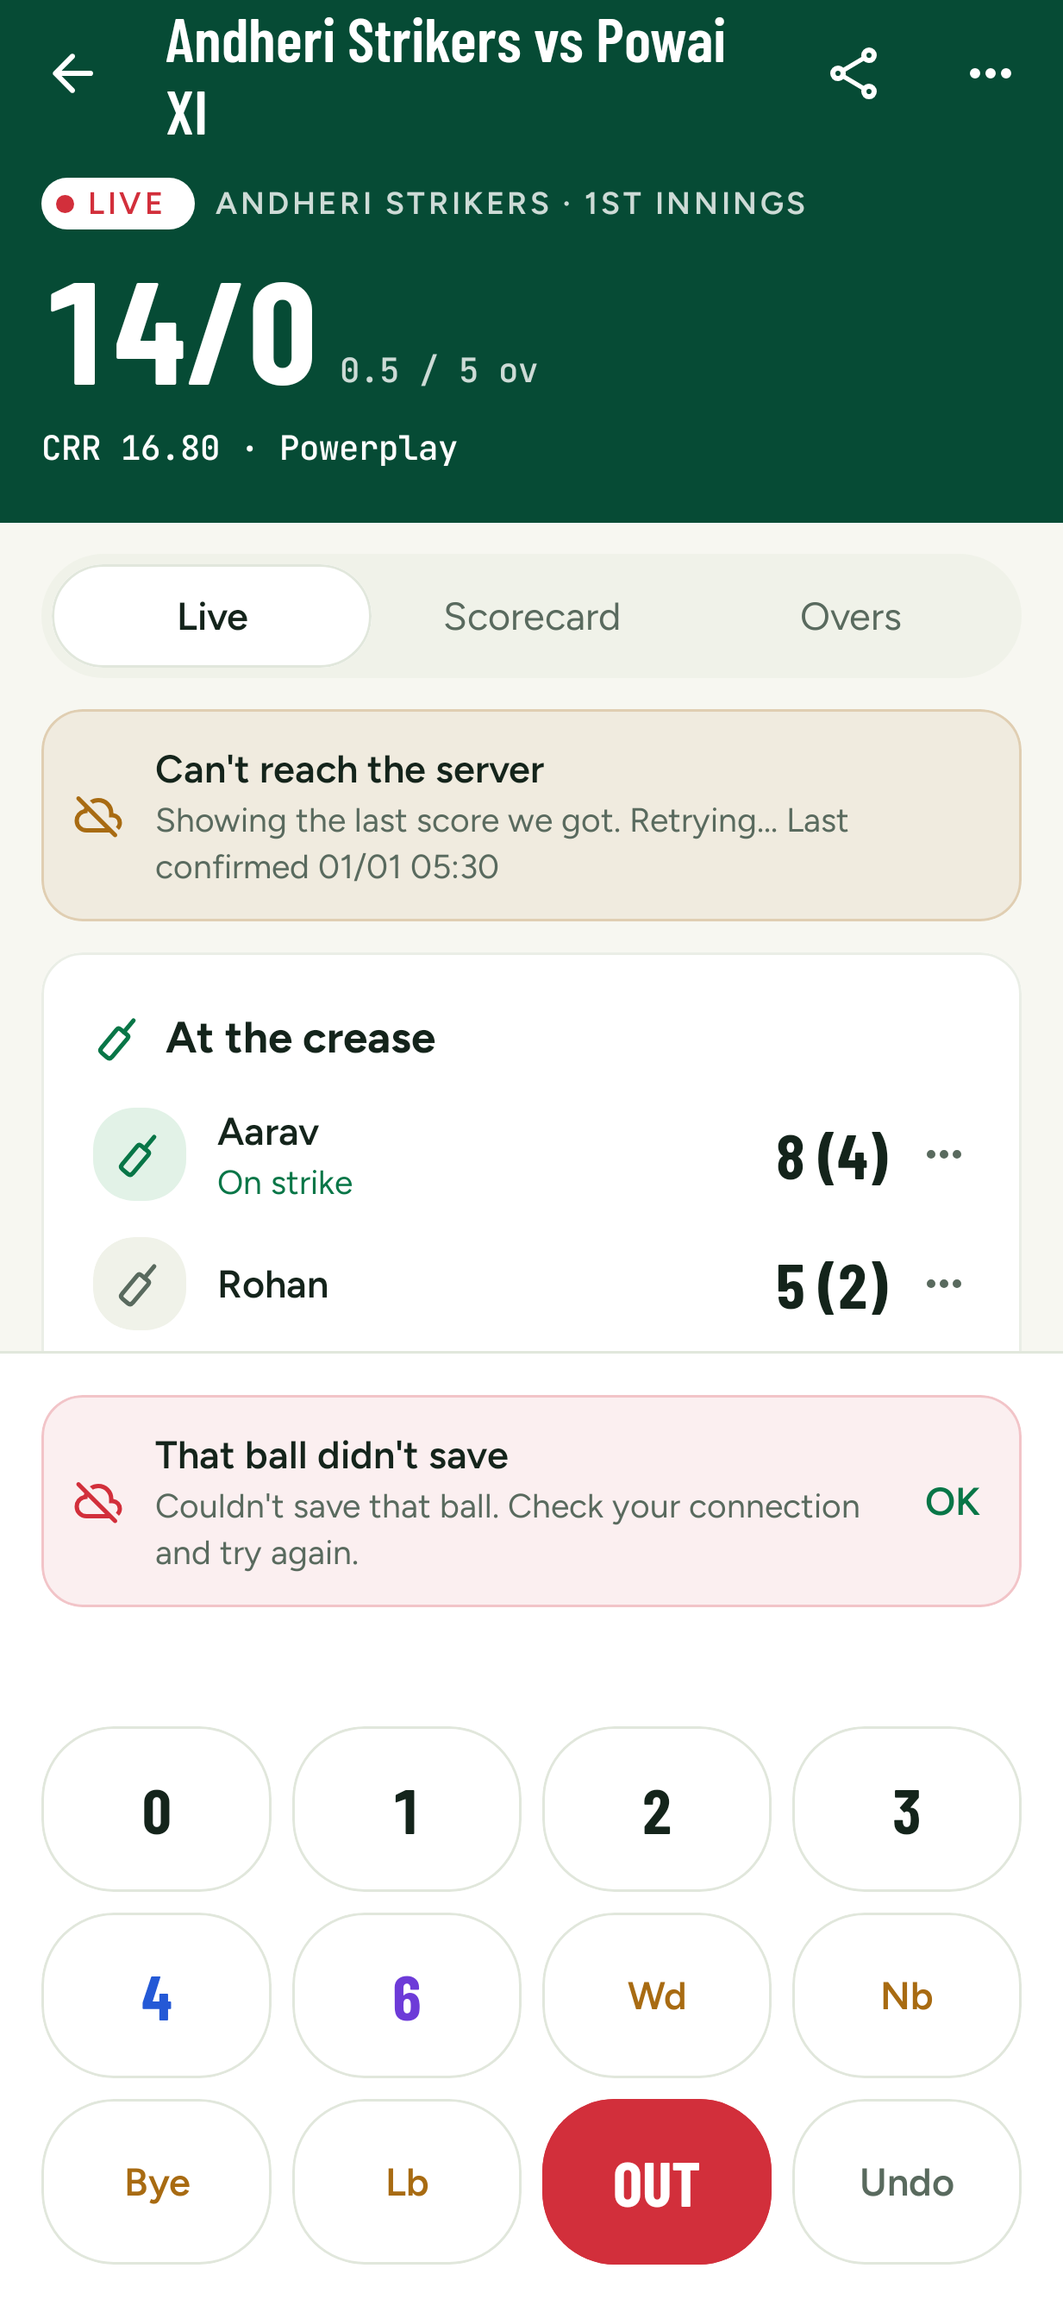
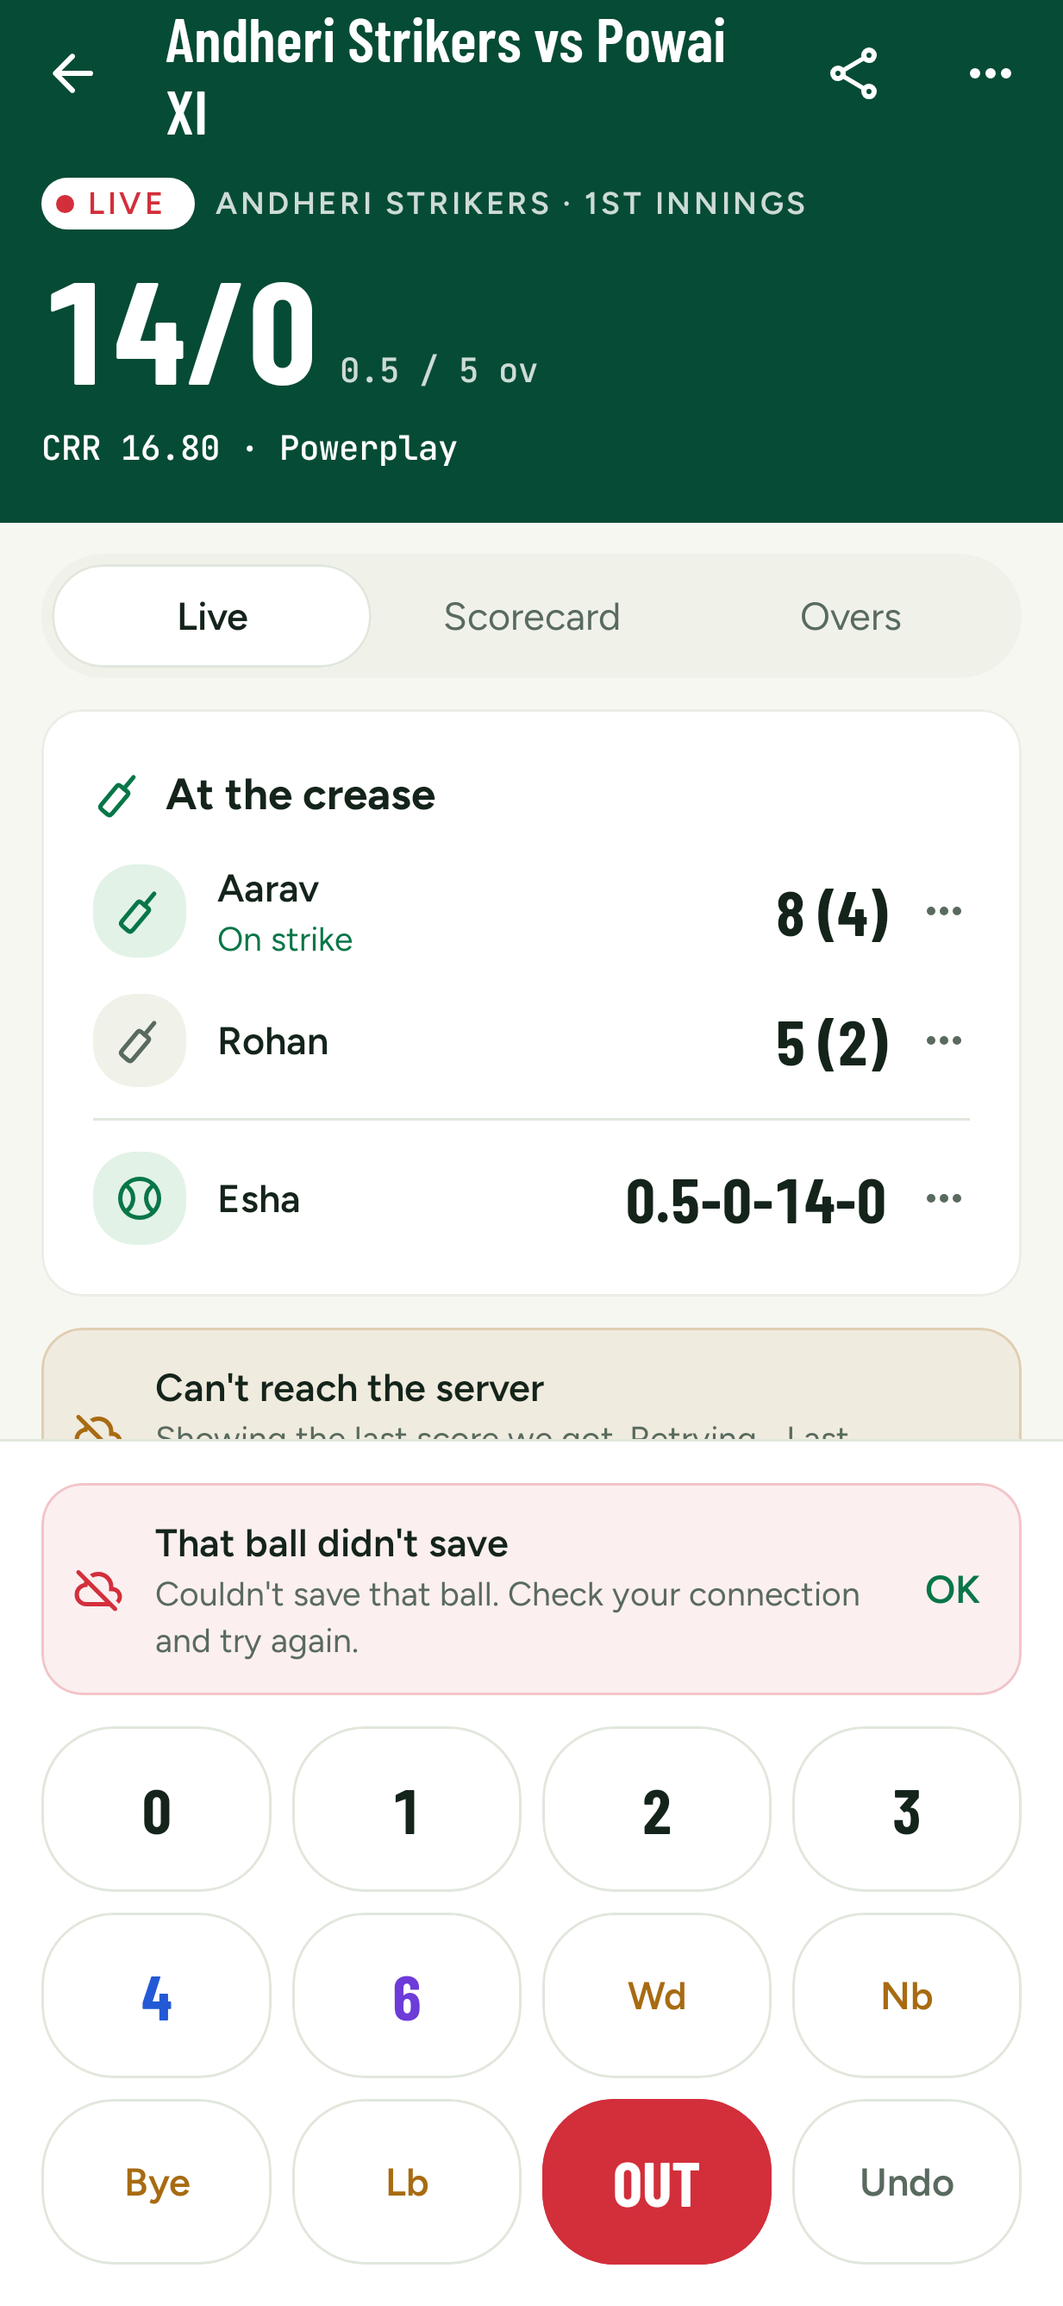
Keep the crease in view and point the scorer at the next pick
The crease card scrolled under the run pad, so a banner could hide the
bowler. It's now pinned above the pad, and the pad drops its empty hint
row. The striker, non-striker or bowler picker opens by itself when the
next ball needs one, once per gap.

Tapping a run key that waits for a pick turns the empty slot red, shakes
it and buzzes, instead of doing nothing.

diff --git a/app/shared/src/commonMain/kotlin/com/harsh/desicrics/ui/match/MatchScreen.kt b/app/shared/src/commonMain/kotlin/com/harsh/desicrics/ui/match/MatchScreen.kt
@@ -1,4 +1,6 @@
 package com.harsh.desicrics.ui.match
+import androidx.compose.animation.core.Animatable
+import androidx.compose.animation.core.tween
 import androidx.compose.foundation.border
 import com.harsh.desicrics.model.MatchEvent
 import com.harsh.desicrics.model.AbandonReason
@@ -40,7 +42,9 @@ import androidx.compose.runtime.setValue
 import androidx.compose.ui.Alignment
 import androidx.compose.ui.Modifier
 import androidx.compose.ui.draw.clip
+import androidx.compose.runtime.mutableIntStateOf
 import androidx.compose.ui.hapticfeedback.HapticFeedbackType
+import androidx.compose.ui.unit.IntOffset
 import androidx.compose.ui.platform.LocalHapticFeedback
 import androidx.compose.ui.semantics.Role
 import androidx.compose.ui.text.style.TextAlign
@@ -249,54 +253,93 @@ private fun ColumnScope.Scoring(ui: MatchUiState, state: MatchState, actions: Ma
         onSelect = { tab = it },
         modifier = Modifier.padding(horizontal = DesiTheme.space.screen, vertical = DesiTheme.space.s3),
     )
-    Column(
-        Modifier.fillMaxWidth().weight(1f).verticalScroll(rememberScrollState())
-            .padding(horizontal = DesiTheme.space.screen).padding(bottom = DesiTheme.space.s4),
-        verticalArrangement = Arrangement.spacedBy(DesiTheme.space.s3),
-    ) {
-        if (ui.saving || ui.reconciling) Text(stringResource(if (ui.saving) Res.string.score_saving else Res.string.score_checking), style = DesiTheme.type.caption)
-        if (ui.offline) {
-            ErrorBanner(
-                listOfNotNull(stringResource(Res.string.match_offline), ui.confirmedAt?.let { stringResource(Res.string.score_confirmed, formatDayAndTime(it)) }).joinToString(" "),
-                title = stringResource(Res.string.match_offline_title),
-                icon = DesiIcons.CloudOff,
-                warning = true,
-            )
+    // The batters and bowler stay pinned above the pad so the scorer always sees who's in; the rest scrolls
+    // in what's left. Weighted, so on a short screen this gives way rather than the pad.
+    val scroll = rememberScrollState()
+    // A connection warning appears at the top of the scrolling part; bring it into view.
+    LaunchedEffect(ui.offline) { if (ui.offline) scroll.animateScrollTo(0) }
+    // The pick the scorer has to make before the next ball: openers at the start, a new batter after a
+    // wicket, the next bowler after an over. It opens by itself once per gap; dismissing it leaves the
+    // slot's button to tap, rather than reopening on every recomposition.
+    val needed = when {
+        !ui.isScorer || !ui.canEdit || ui.pendingBall != null -> null
+        ui.strikerId == null -> ScoringSheet.Striker
+        ui.nonStrikerId == null && !ui.battingAlone -> ScoringSheet.NonStriker
+        ui.bowlerId == null -> ScoringSheet.Bowler
+        else -> null
+    }
+    // Taps on run keys that wait for that pick: the slot turns red and shakes, and the phone buzzes.
+    var nudges by remember(needed) { mutableIntStateOf(0) }
+    val haptics = LocalHapticFeedback.current
+    val onBlockedKey: () -> Unit = {
+        if (needed != null) {
+            nudges++
+            haptics.performHapticFeedback(HapticFeedbackType.Reject)
         }
-        when (tab) {
-            MatchTab.LIVE -> {
-                if (!state.isComplete) {
-                    CreaseCard(ui, innings, onChoose = { sheet = it })
-                    ThisOver(innings)
-                }
-                if (!ui.isScorer) {
-                    Text(stringResource(Res.string.match_not_your_match), style = DesiTheme.type.caption, color = DesiTheme.colors.muted)
-                }
-                if (state.isComplete && ui.canUndo) {
-                    // Undo after an early ending reopens the match rather than taking back a ball.
-                    val endedEarly = state.result?.ending != null
-                    GhostButton(
-                        stringResource(if (endedEarly) Res.string.end_reopen else Res.string.match_undo_last_ball),
-                        onClick = if (endedEarly) actions.onUndo else askUndo,
-                        modifier = Modifier.fillMaxWidth(),
-                        leadingIcon = DesiIcons.History,
-                    )
-                }
+    }
+    val crease = tab == MatchTab.LIVE && !state.isComplete
+    Column(Modifier.fillMaxWidth().weight(1f)) {
+        if (crease) {
+            Box(Modifier.padding(horizontal = DesiTheme.space.screen).padding(bottom = DesiTheme.space.s3)) {
+                CreaseCard(ui, innings, blocking = needed?.takeIf { nudges > 0 }, nudges = nudges, onChoose = { sheet = it })
             }
-            MatchTab.SCORECARD -> {
-                state.innings.forEach {
-                    InningsScorecard(it)
-                    InningsWagonWheel(it)
-                }
-                MatchMvp(state)
+        }
+        Column(
+            Modifier.fillMaxWidth().weight(1f).verticalScroll(scroll)
+                .padding(horizontal = DesiTheme.space.screen).padding(bottom = DesiTheme.space.s4),
+            verticalArrangement = Arrangement.spacedBy(DesiTheme.space.s3),
+        ) {
+            if (ui.saving || ui.reconciling) Text(stringResource(if (ui.saving) Res.string.score_saving else Res.string.score_checking), style = DesiTheme.type.caption)
+            if (ui.offline) {
+                ErrorBanner(
+                    listOfNotNull(stringResource(Res.string.match_offline), ui.confirmedAt?.let { stringResource(Res.string.score_confirmed, formatDayAndTime(it)) }).joinToString(" "),
+                    title = stringResource(Res.string.match_offline_title),
+                    icon = DesiIcons.CloudOff,
+                    warning = true,
+                )
             }
-            // Latest innings first, so the over in progress is at the top.
-            MatchTab.OVERS -> state.innings.asReversed().forEach { InningsOvers(it, showTitle = state.innings.size > 1) }
+            when (tab) {
+                MatchTab.LIVE -> {
+                    if (!state.isComplete) ThisOver(innings)
+                    if (!ui.isScorer) {
+                        Text(stringResource(Res.string.match_not_your_match), style = DesiTheme.type.caption, color = DesiTheme.colors.muted)
+                    }
+                    if (state.isComplete && ui.canUndo) {
+                        // Undo after an early ending reopens the match rather than taking back a ball.
+                        val endedEarly = state.result?.ending != null
+                        GhostButton(
+                            stringResource(if (endedEarly) Res.string.end_reopen else Res.string.match_undo_last_ball),
+                            onClick = if (endedEarly) actions.onUndo else askUndo,
+                            modifier = Modifier.fillMaxWidth(),
+                            leadingIcon = DesiIcons.History,
+                        )
+                    }
+                }
+                MatchTab.SCORECARD -> {
+                    state.innings.forEach {
+                        InningsScorecard(it)
+                        InningsWagonWheel(it)
+                    }
+                    MatchMvp(state)
+                }
+                // Latest innings first, so the over in progress is at the top.
+                MatchTab.OVERS -> state.innings.asReversed().forEach { InningsOvers(it, showTitle = state.innings.size > 1) }
+            }
         }
     }
     // The pad only shows with the live view, so the scorecard gets the whole screen.
     if (ui.isScorer && !state.isComplete && tab == MatchTab.LIVE) {
-        ScoringPad(ui, actions, askUndo, onSheet = { sheet = it })
+        ScoringPad(ui, actions, askUndo, nudged = nudges > 0, onBlockedKey = onBlockedKey, onSheet = { sheet = it })
+    }
+
+    var autoOpened by remember { mutableStateOf<Pair<ScoringSheet, Int>?>(null) }
+    LaunchedEffect(needed, ui.nextSeq, sheet == null) {
+        val gap = needed?.let { it to ui.nextSeq } ?: return@LaunchedEffect
+        if (sheet == null && autoOpened != gap) {
+            autoOpened = gap
+            tab = MatchTab.LIVE
+            sheet = needed
+        }
     }
 
     ScoringSheets(sheet, ui, state, actions, onSheet = { sheet = it }, onClose = { sheet = null })
@@ -414,7 +457,7 @@ private fun Scoreboard(state: MatchState, onBack: () -> Unit, onShare: () -> Uni
 
 /** Both batters and the bowler. Empty slots are buttons for the scorer to fill. */
 @Composable
-private fun CreaseCard(ui: MatchUiState, innings: InningsState, onChoose: (ScoringSheet) -> Unit) {
+private fun CreaseCard(ui: MatchUiState, innings: InningsState, blocking: ScoringSheet?, nudges: Int, onChoose: (ScoringSheet) -> Unit) {
     fun batter(id: String?) = innings.battingTeam.players.firstOrNull { it.id == id }
     val bowler = innings.bowlingTeam.players.firstOrNull { it.id == ui.bowlerId }
     val chooseBowler = if (innings.legalBalls == 0) Res.string.match_choose_opening_bowler else Res.string.match_choose_next_bowler
@@ -438,19 +481,19 @@ private fun CreaseCard(ui: MatchUiState, innings: InningsState, onChoose: (Scori
                 )
             }
         }
-        BatterSlot(batter(ui.strikerId), innings, onStrike = true, empty = stringResource(Res.string.match_choose_striker), ui.canEdit, mustRetire, rules, onChoose) {
+        BatterSlot(batter(ui.strikerId), innings, onStrike = true, empty = stringResource(Res.string.match_choose_striker), ui.canEdit, mustRetire, rules, onChoose, nudges.takeIf { blocking == ScoringSheet.Striker }) {
             onChoose(ScoringSheet.Striker)
         }
         if (ui.battingAlone) {
             Text(stringResource(Res.string.match_batting_alone), style = DesiTheme.type.caption, color = DesiTheme.colors.muted)
         } else {
-            BatterSlot(batter(ui.nonStrikerId), innings, onStrike = false, empty = stringResource(Res.string.match_choose_non_striker), ui.canEdit, mustRetire, rules, onChoose) {
+            BatterSlot(batter(ui.nonStrikerId), innings, onStrike = false, empty = stringResource(Res.string.match_choose_non_striker), ui.canEdit, mustRetire, rules, onChoose, nudges.takeIf { blocking == ScoringSheet.NonStriker }) {
                 onChoose(ScoringSheet.NonStriker)
             }
         }
         HorizontalDivider(color = DesiTheme.colors.line)
         if (bowler == null) {
-            EmptySlot(stringResource(chooseBowler), enabled = ui.canEdit) { onChoose(ScoringSheet.Bowler) }
+            EmptySlot(stringResource(chooseBowler), enabled = ui.canEdit, nudges = nudges.takeIf { blocking == ScoringSheet.Bowler }) { onChoose(ScoringSheet.Bowler) }
         } else {
             val card = innings.bowlers.firstOrNull { it.player.id == bowler.id }
             SlotRow(
@@ -474,10 +517,11 @@ private fun BatterSlot(
     mustRetire: Set<String>,
     rules: MatchRules?,
     onSheet: (ScoringSheet) -> Unit,
+    nudges: Int?,
     onChoose: () -> Unit,
 ) {
     if (player == null) {
-        EmptySlot(empty, canEdit, onChoose)
+        EmptySlot(empty, canEdit, nudges, onChoose)
         return
     }
     val card = innings.batters.firstOrNull { it.player.id == player.id }
@@ -530,22 +574,35 @@ private fun SlotIcon(icon: DrawableResource, highlighted: Boolean) {
     }
 }
 
-/** A slot nobody fills yet: a soft brand button with a plus. */
+/**
+ * A slot nobody fills yet: a soft brand button with a plus. With [nudges], it's the slot holding up the
+ * next ball and the scorer has tried to score anyway: it turns red and shakes once per try.
+ */
 @Composable
-private fun EmptySlot(text: String, enabled: Boolean, onClick: () -> Unit) {
+private fun EmptySlot(text: String, enabled: Boolean, nudges: Int? = null, onClick: () -> Unit) {
     val colors = DesiTheme.colors
+    val alert = nudges != null
+    val tone = if (alert) colors.event.wicket else colors.brand
+    val shake = remember { Animatable(0f) }
+    val reduceMotion = DesiTheme.reduceMotion
+    LaunchedEffect(nudges) {
+        if (nudges == null || nudges == 0 || reduceMotion) return@LaunchedEffect
+        for (x in listOf(-10f, 10f, -8f, 8f, -4f, 4f, 0f)) shake.animateTo(x, tween(40))
+    }
     Row(
         Modifier
             .fillMaxWidth()
+            .offset { IntOffset(shake.value.dp.roundToPx(), 0) }
             .clip(DesiTheme.radius.md)
-            .background(colors.brandSoft)
+            .background(if (alert) tone.copy(alpha = 0.08f) else colors.brandSoft)
+            .then(if (alert) Modifier.border(1.dp, tone, DesiTheme.radius.md) else Modifier)
             .clickable(enabled = enabled, role = Role.Button, onClick = onClick)
             .padding(horizontal = DesiTheme.space.s3, vertical = DesiTheme.space.s3),
         verticalAlignment = Alignment.CenterVertically,
         horizontalArrangement = Arrangement.spacedBy(DesiTheme.space.s3),
     ) {
-        Icon(painterResource(DesiIcons.Add), contentDescription = null, tint = colors.brand, modifier = Modifier.size(DesiTheme.size.iconSmall))
-        Text(text, style = DesiTheme.type.bodyStrong, color = colors.brand)
+        Icon(painterResource(DesiIcons.Add), contentDescription = null, tint = tone, modifier = Modifier.size(DesiTheme.size.iconSmall))
+        Text(text, style = DesiTheme.type.bodyStrong, color = tone)
     }
 }
 
@@ -569,7 +626,14 @@ private fun ThisOver(innings: InningsState) {
 
 /** Pinned run pad. Undo stays usable while the run keys wait for a batter or bowler to be picked. */
 @Composable
-private fun ScoringPad(ui: MatchUiState, actions: MatchActions, askUndo: () -> Unit, onSheet: (ScoringSheet) -> Unit) {
+private fun ScoringPad(
+    ui: MatchUiState,
+    actions: MatchActions,
+    askUndo: () -> Unit,
+    nudged: Boolean,
+    onBlockedKey: () -> Unit,
+    onSheet: (ScoringSheet) -> Unit,
+) {
     val colors = DesiTheme.colors
     val canScore = ui.canScore
     val keys = listOf(
@@ -607,20 +671,23 @@ private fun ScoringPad(ui: MatchUiState, actions: MatchActions, askUndo: () -> U
             verticalArrangement = Arrangement.spacedBy(DesiTheme.space.s3),
         ) {
             ui.error?.let { ScoringErrorBanner(it, actions.onDismissError) }
-            Row(verticalAlignment = Alignment.CenterVertically) {
-                val hint = when {
-                    misheard -> stringResource(Res.string.scoring_voice_unknown)
-                    !canScore && !ui.saving && ui.error == null -> stringResource(Res.string.match_pick_players_first)
-                    else -> null
-                }
-                Text(hint.orEmpty(), style = DesiTheme.type.body, color = colors.muted, modifier = Modifier.weight(1f))
-                if (listen != null) {
-                    IconButton(onClick = { misheard = false; listen() }, enabled = !ui.saving) {
-                        Icon(painterResource(DesiIcons.Mic), stringResource(Res.string.scoring_voice), tint = colors.brand)
+            val hint = when {
+                misheard -> stringResource(Res.string.scoring_voice_unknown)
+                !canScore && !ui.saving && ui.error == null -> stringResource(Res.string.match_pick_players_first)
+                else -> null
+            }
+            // No empty row when there's nothing to say and no mic, so the crease above keeps the room.
+            if (hint != null || listen != null) {
+                Row(verticalAlignment = Alignment.CenterVertically) {
+                    Text(hint.orEmpty(), style = DesiTheme.type.body, color = if (nudged) colors.event.wicket else colors.muted, modifier = Modifier.weight(1f))
+                    if (listen != null) {
+                        IconButton(onClick = { misheard = false; listen() }, enabled = !ui.saving) {
+                            Icon(painterResource(DesiIcons.Mic), stringResource(Res.string.scoring_voice), tint = colors.brand)
+                        }
                     }
                 }
             }
-            RunPad(keys, enabled = !ui.saving, onKey = { key ->
+            RunPad(keys, enabled = !ui.saving, onBlockedKey = { onBlockedKey() }, onKey = { key ->
                 when (key.id) {
                     "wd" -> onSheet(ScoringSheet.Extra(ExtraType.WIDE))
                     "nb" -> onSheet(ScoringSheet.Extra(ExtraType.NO_BALL))

diff --git a/app/designsystem/src/commonMain/kotlin/com/harsh/desicrics/designsystem/component/Scoring.kt b/app/designsystem/src/commonMain/kotlin/com/harsh/desicrics/designsystem/component/Scoring.kt
@@ -103,13 +103,18 @@ data class PadKey(val id: String, val label: String, val style: PadKeyStyle = Pa
 /**
  * The 4-column scoring keypad. Keys are 64dp tall, as the thumb-zone rule asks. A key works when both
  * [enabled] and its own [PadKey.enabled] are true, so Undo can stay live while the run keys wait.
+ * With [onBlockedKey], a key that's off only for its own reason still answers a tap, so the screen can
+ * point at what's holding it back.
  */
 @Composable
-fun RunPad(keys: List<PadKey>, onKey: (PadKey) -> Unit, modifier: Modifier = Modifier, enabled: Boolean = true) {
+fun RunPad(keys: List<PadKey>, onKey: (PadKey) -> Unit, modifier: Modifier = Modifier, enabled: Boolean = true, onBlockedKey: ((PadKey) -> Unit)? = null) {
     Column(modifier, verticalArrangement = Arrangement.spacedBy(DesiTheme.space.s2)) {
         keys.chunked(PAD_COLUMNS).forEach { row ->
             Row(horizontalArrangement = Arrangement.spacedBy(DesiTheme.space.s2)) {
-                row.forEach { key -> PadKeyButton(key, enabled && key.enabled, { onKey(key) }, Modifier.weight(1f)) }
+                row.forEach { key ->
+                    val blocked = enabled && !key.enabled && onBlockedKey != null
+                    PadKeyButton(key, enabled && key.enabled, { if (blocked) onBlockedKey!!(key) else onKey(key) }, Modifier.weight(1f), tappable = blocked)
+                }
                 repeat(PAD_COLUMNS - row.size) { Box(Modifier.weight(1f)) }
             }
         }
@@ -119,7 +124,7 @@ fun RunPad(keys: List<PadKey>, onKey: (PadKey) -> Unit, modifier: Modifier = Mod
 private const val PAD_COLUMNS = 4
 
 @Composable
-private fun PadKeyButton(key: PadKey, enabled: Boolean, onClick: () -> Unit, modifier: Modifier) {
+private fun PadKeyButton(key: PadKey, enabled: Boolean, onClick: () -> Unit, modifier: Modifier, tappable: Boolean = false) {
     val colors = DesiTheme.colors
     val event = colors.event
     val isWicket = key.style == PadKeyStyle.Wicket
@@ -141,7 +146,7 @@ private fun PadKeyButton(key: PadKey, enabled: Boolean, onClick: () -> Unit, mod
             .clip(DesiTheme.radius.lg)
             .background(if (isWicket && enabled) event.wicket else colors.surface)
             .border(1.dp, if (isWicket && enabled) event.wicket else colors.line, DesiTheme.radius.lg)
-            .clickable(enabled = enabled, onClick = onClick),
+            .clickable(enabled = enabled || tappable, onClick = onClick),
         contentAlignment = Alignment.Center,
     ) {
         Text(key.label, style = style, color = if (enabled) text else colors.muted, textAlign = TextAlign.Center)
